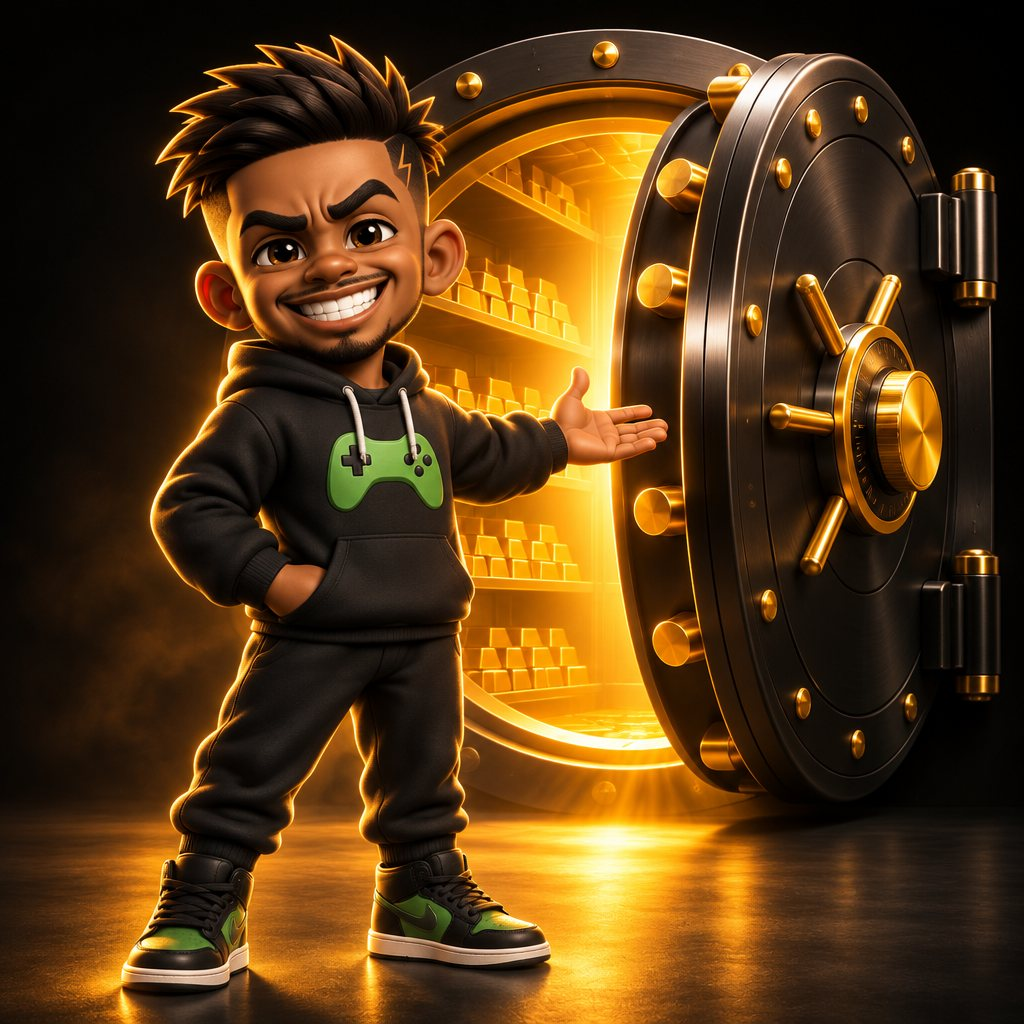
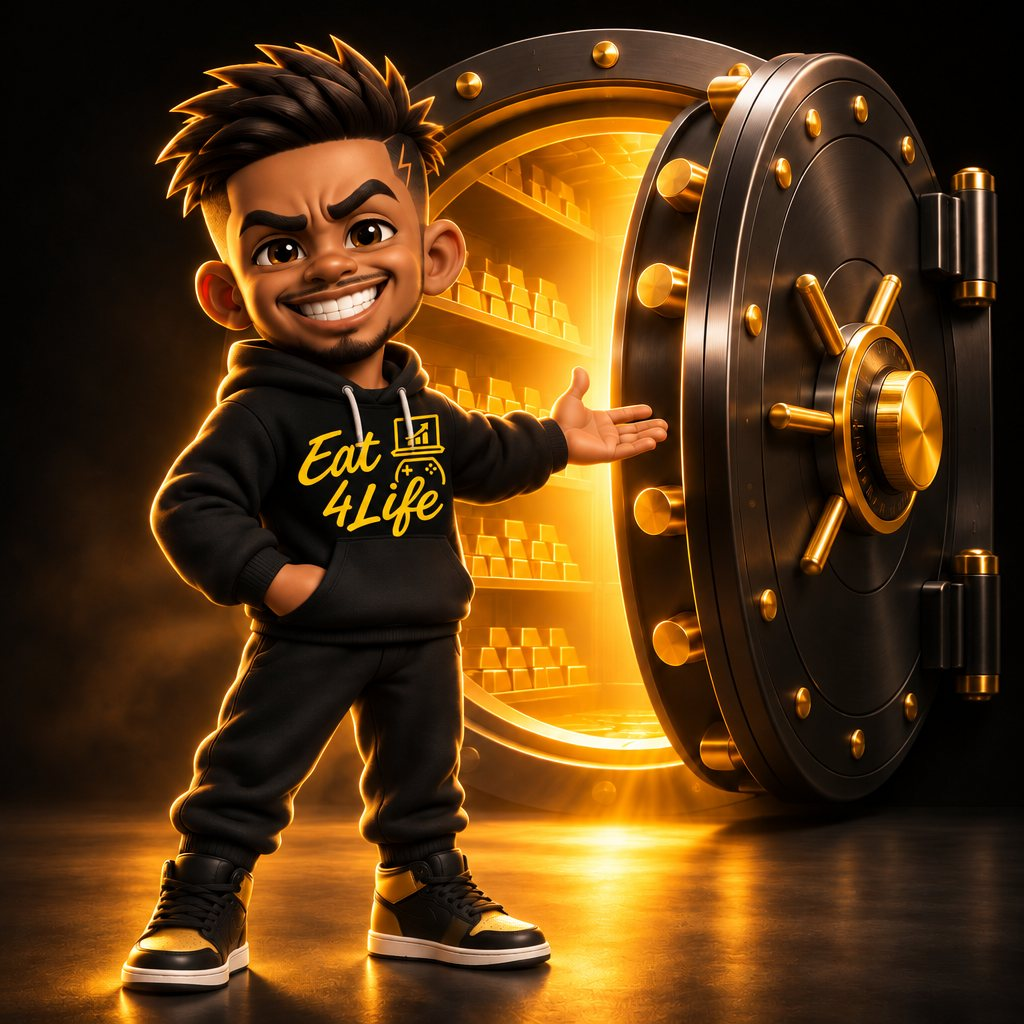
Vault hero: Malik in the Eat 4Life hoodie, plain sneakers
Claude-Session: https://claude.ai/code/session_0133XWqZfDUFFpyhVnKwgJr7

diff --git a/vault/index.html b/vault/index.html
@@ -249,7 +249,7 @@ footer a{color:var(--muted)}
     <div class="door hero-art reveal">
       <picture>
         <source srcset="malik-vault.webp" type="image/webp">
-        <img src="malik-vault.jpg" width="1024" height="1024" alt="Malik, the E4L mascot, smiling and pointing into an open gold vault" fetchpriority="high">
+        <img src="malik-vault.jpg" width="1024" height="1024" alt="Malik, the E4L mascot, in an Eat 4Life hoodie, pointing into an open gold vault" fetchpriority="high">
       </picture>
       <span class="door-tag t1"><b>100+</b> prompts</span>
       <span class="door-tag t2"><b>GHL</b> snapshots</span>
